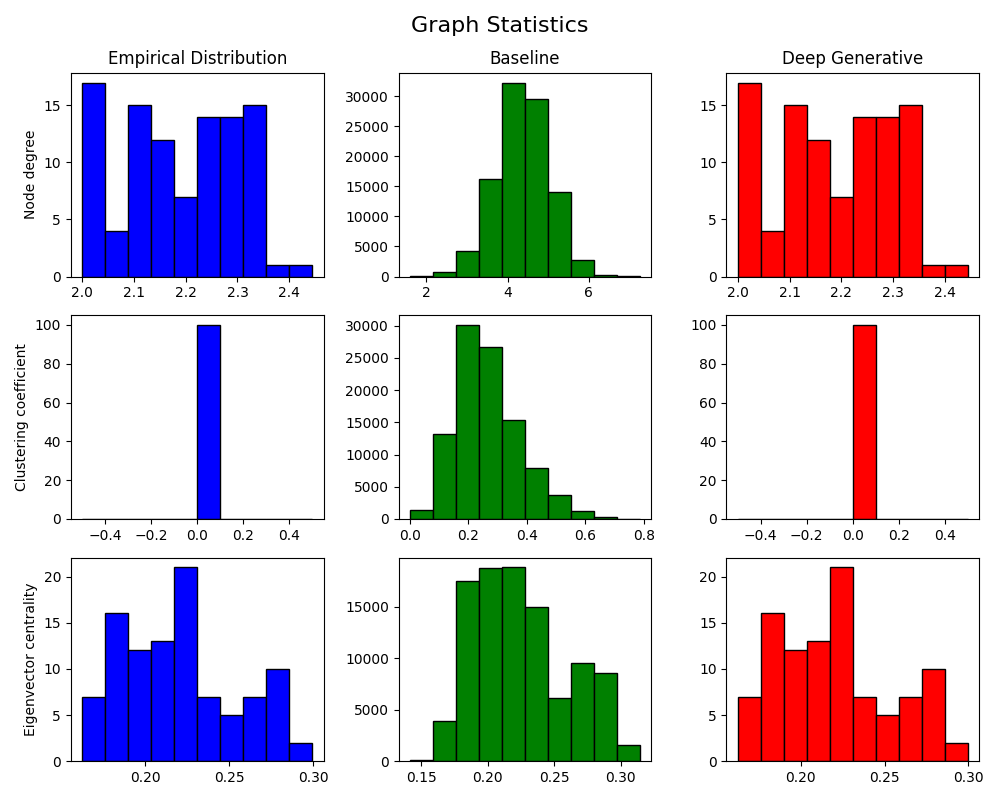
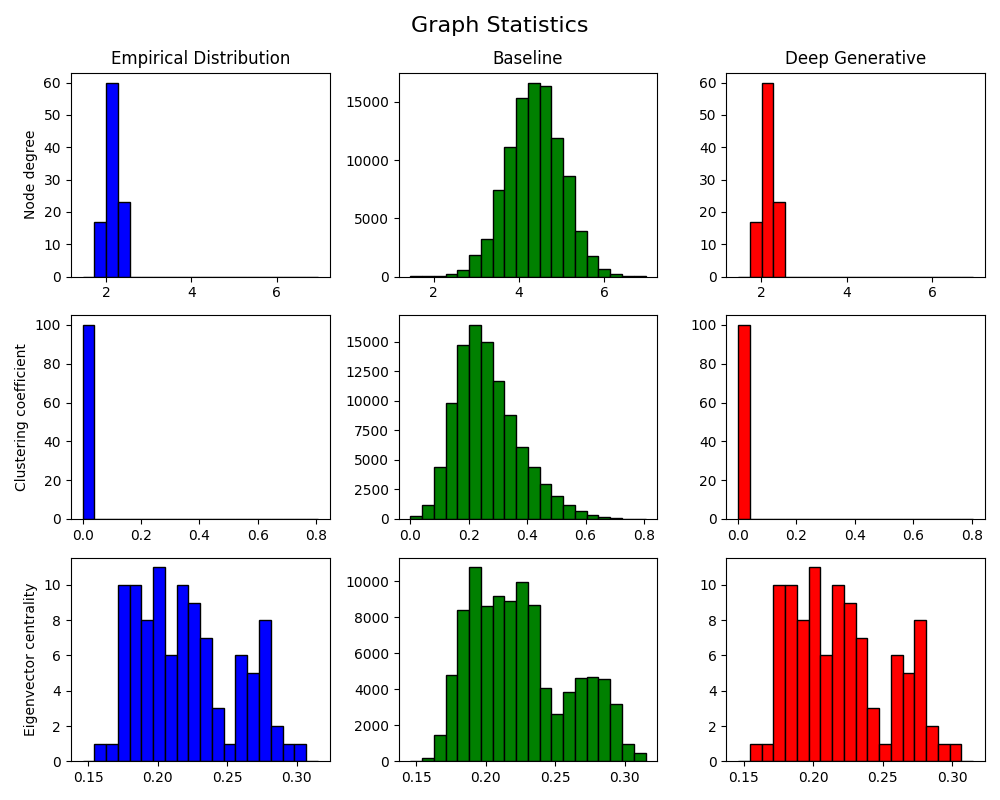
new fix

diff --git a/create_graph_statistics.py b/create_graph_statistics.py
@@ -83,20 +83,37 @@ def create_histogram(nd_data, cc_data, ec_data,
     fig, axes = plt.subplots(3, 3, figsize=(10, 8))
     fig.suptitle('Graph Statistics', fontsize=16)
 
-    # Row 1: Node Degrees
-    axes[0, 0].hist(nd_data, color='blue', edgecolor='black')
-    axes[0, 1].hist(nd_base, color='green', edgecolor='black')
-    axes[0, 2].hist(nd_gen, color='red', edgecolor='black')
 
-    # Row 2: Clustering Coefficients
-    axes[1, 0].hist(cc_data, color='blue', edgecolor='black')
-    axes[1, 1].hist(cc_base, color='green', edgecolor='black')
-    axes[1, 2].hist(cc_gen, color='red', edgecolor='black')
+    # Combine all node degree data
+    all_nd = nd_data + nd_base + nd_gen
+
+    # Define shared bins (you can change the number of bins)
+    num_bins = 20
+    min_val, max_val = min(all_nd), max(all_nd)
+    bins_nd = np.linspace(min_val, max_val, num_bins + 1)
+
+    # Row 1: Node Degrees
+    axes[0, 0].hist(nd_data, bins=bins_nd, color='blue', edgecolor='black')
+    axes[0, 1].hist(nd_base, bins=bins_nd, color='green', edgecolor='black')
+    axes[0, 2].hist(nd_gen, bins=bins_nd, color='red', edgecolor='black')
+
+    all_cc = cc_data + cc_base + cc_gen
+    num_bins_cc = 20
+    min_cc, max_cc = min(all_cc), max(all_cc)
+    bins_cc = np.linspace(min_cc, max_cc, num_bins_cc + 1)
+
+    axes[1, 0].hist(cc_data, bins=bins_cc, color='blue', edgecolor='black')
+    axes[1, 1].hist(cc_base, bins=bins_cc, color='green', edgecolor='black')
+    axes[1, 2].hist(cc_gen, bins=bins_cc, color='red', edgecolor='black')
     
-    # Row 3: Eigenvector Centrality
-    axes[2, 0].hist(ec_data, color='blue', edgecolor='black')
-    axes[2, 1].hist(ec_base, color='green', edgecolor='black')
-    axes[2, 2].hist(ec_gen, color='red', edgecolor='black')
+    all_ec = ec_data + ec_base + ec_gen
+    num_bins_ec = 20
+    min_ec, max_ec = min(all_ec), max(all_ec)
+    bins_ec = np.linspace(min_ec, max_ec, num_bins_ec + 1)
+
+    axes[2, 0].hist(ec_data, bins=bins_ec, color='blue', edgecolor='black')
+    axes[2, 1].hist(ec_base, bins=bins_ec, color='green', edgecolor='black')
+    axes[2, 2].hist(ec_gen, bins=bins_ec, color='red', edgecolor='black')
 
 
     #Set titles on histograms
